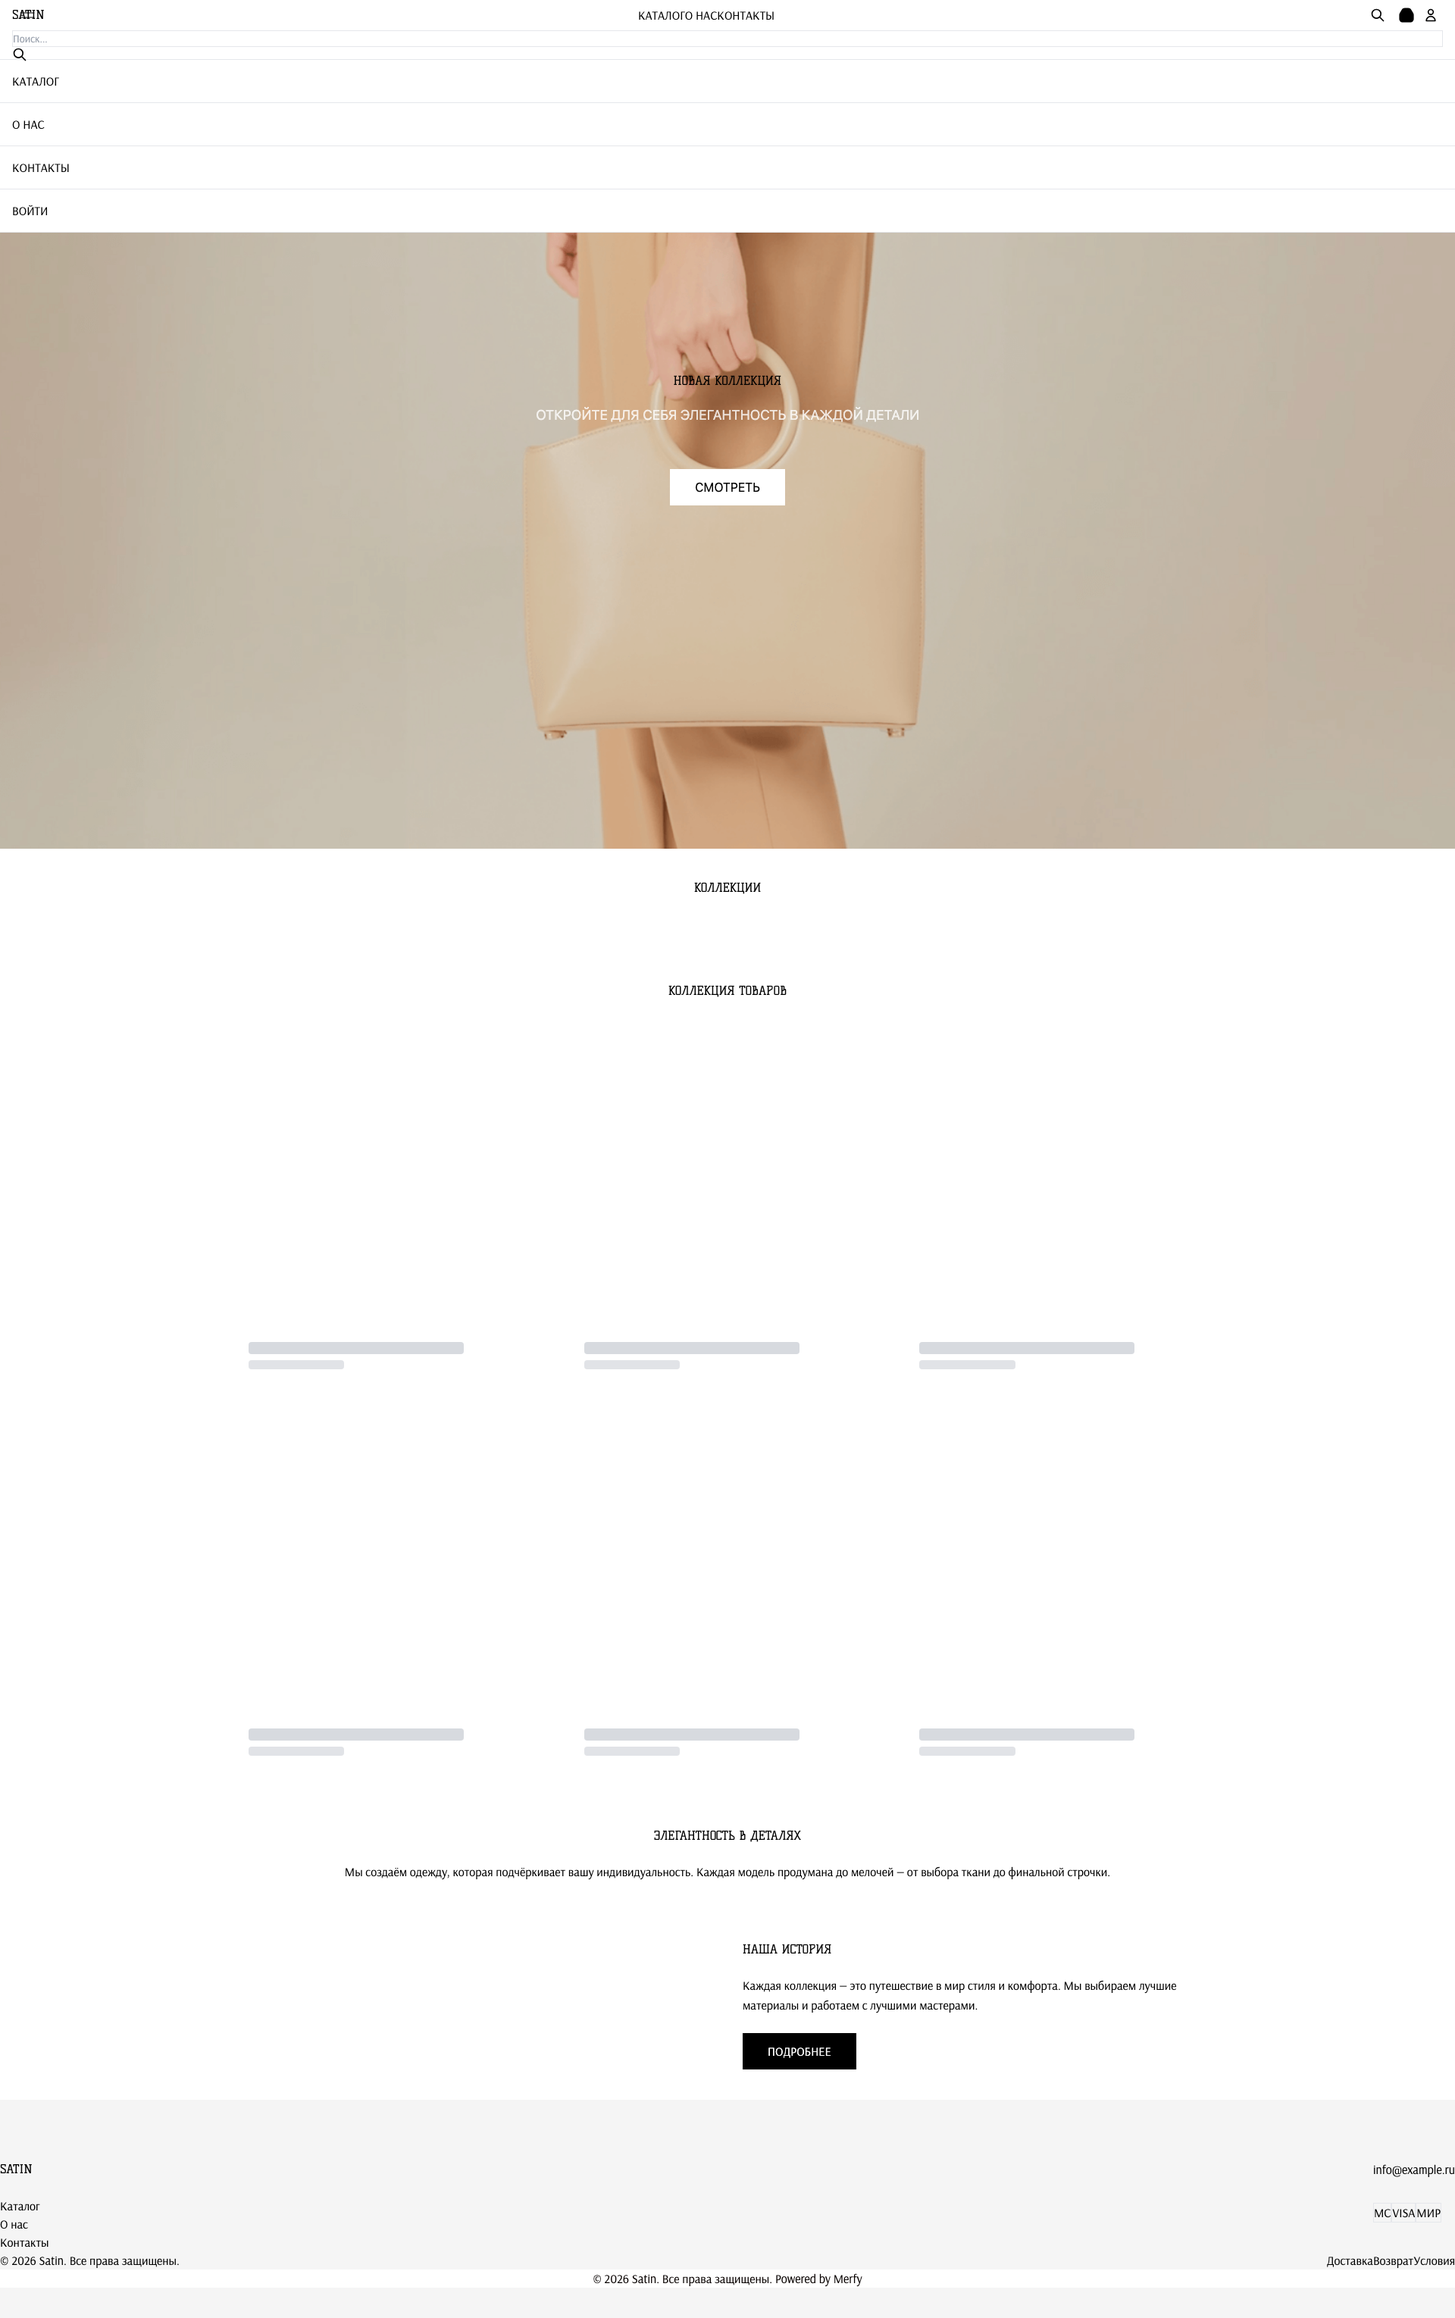
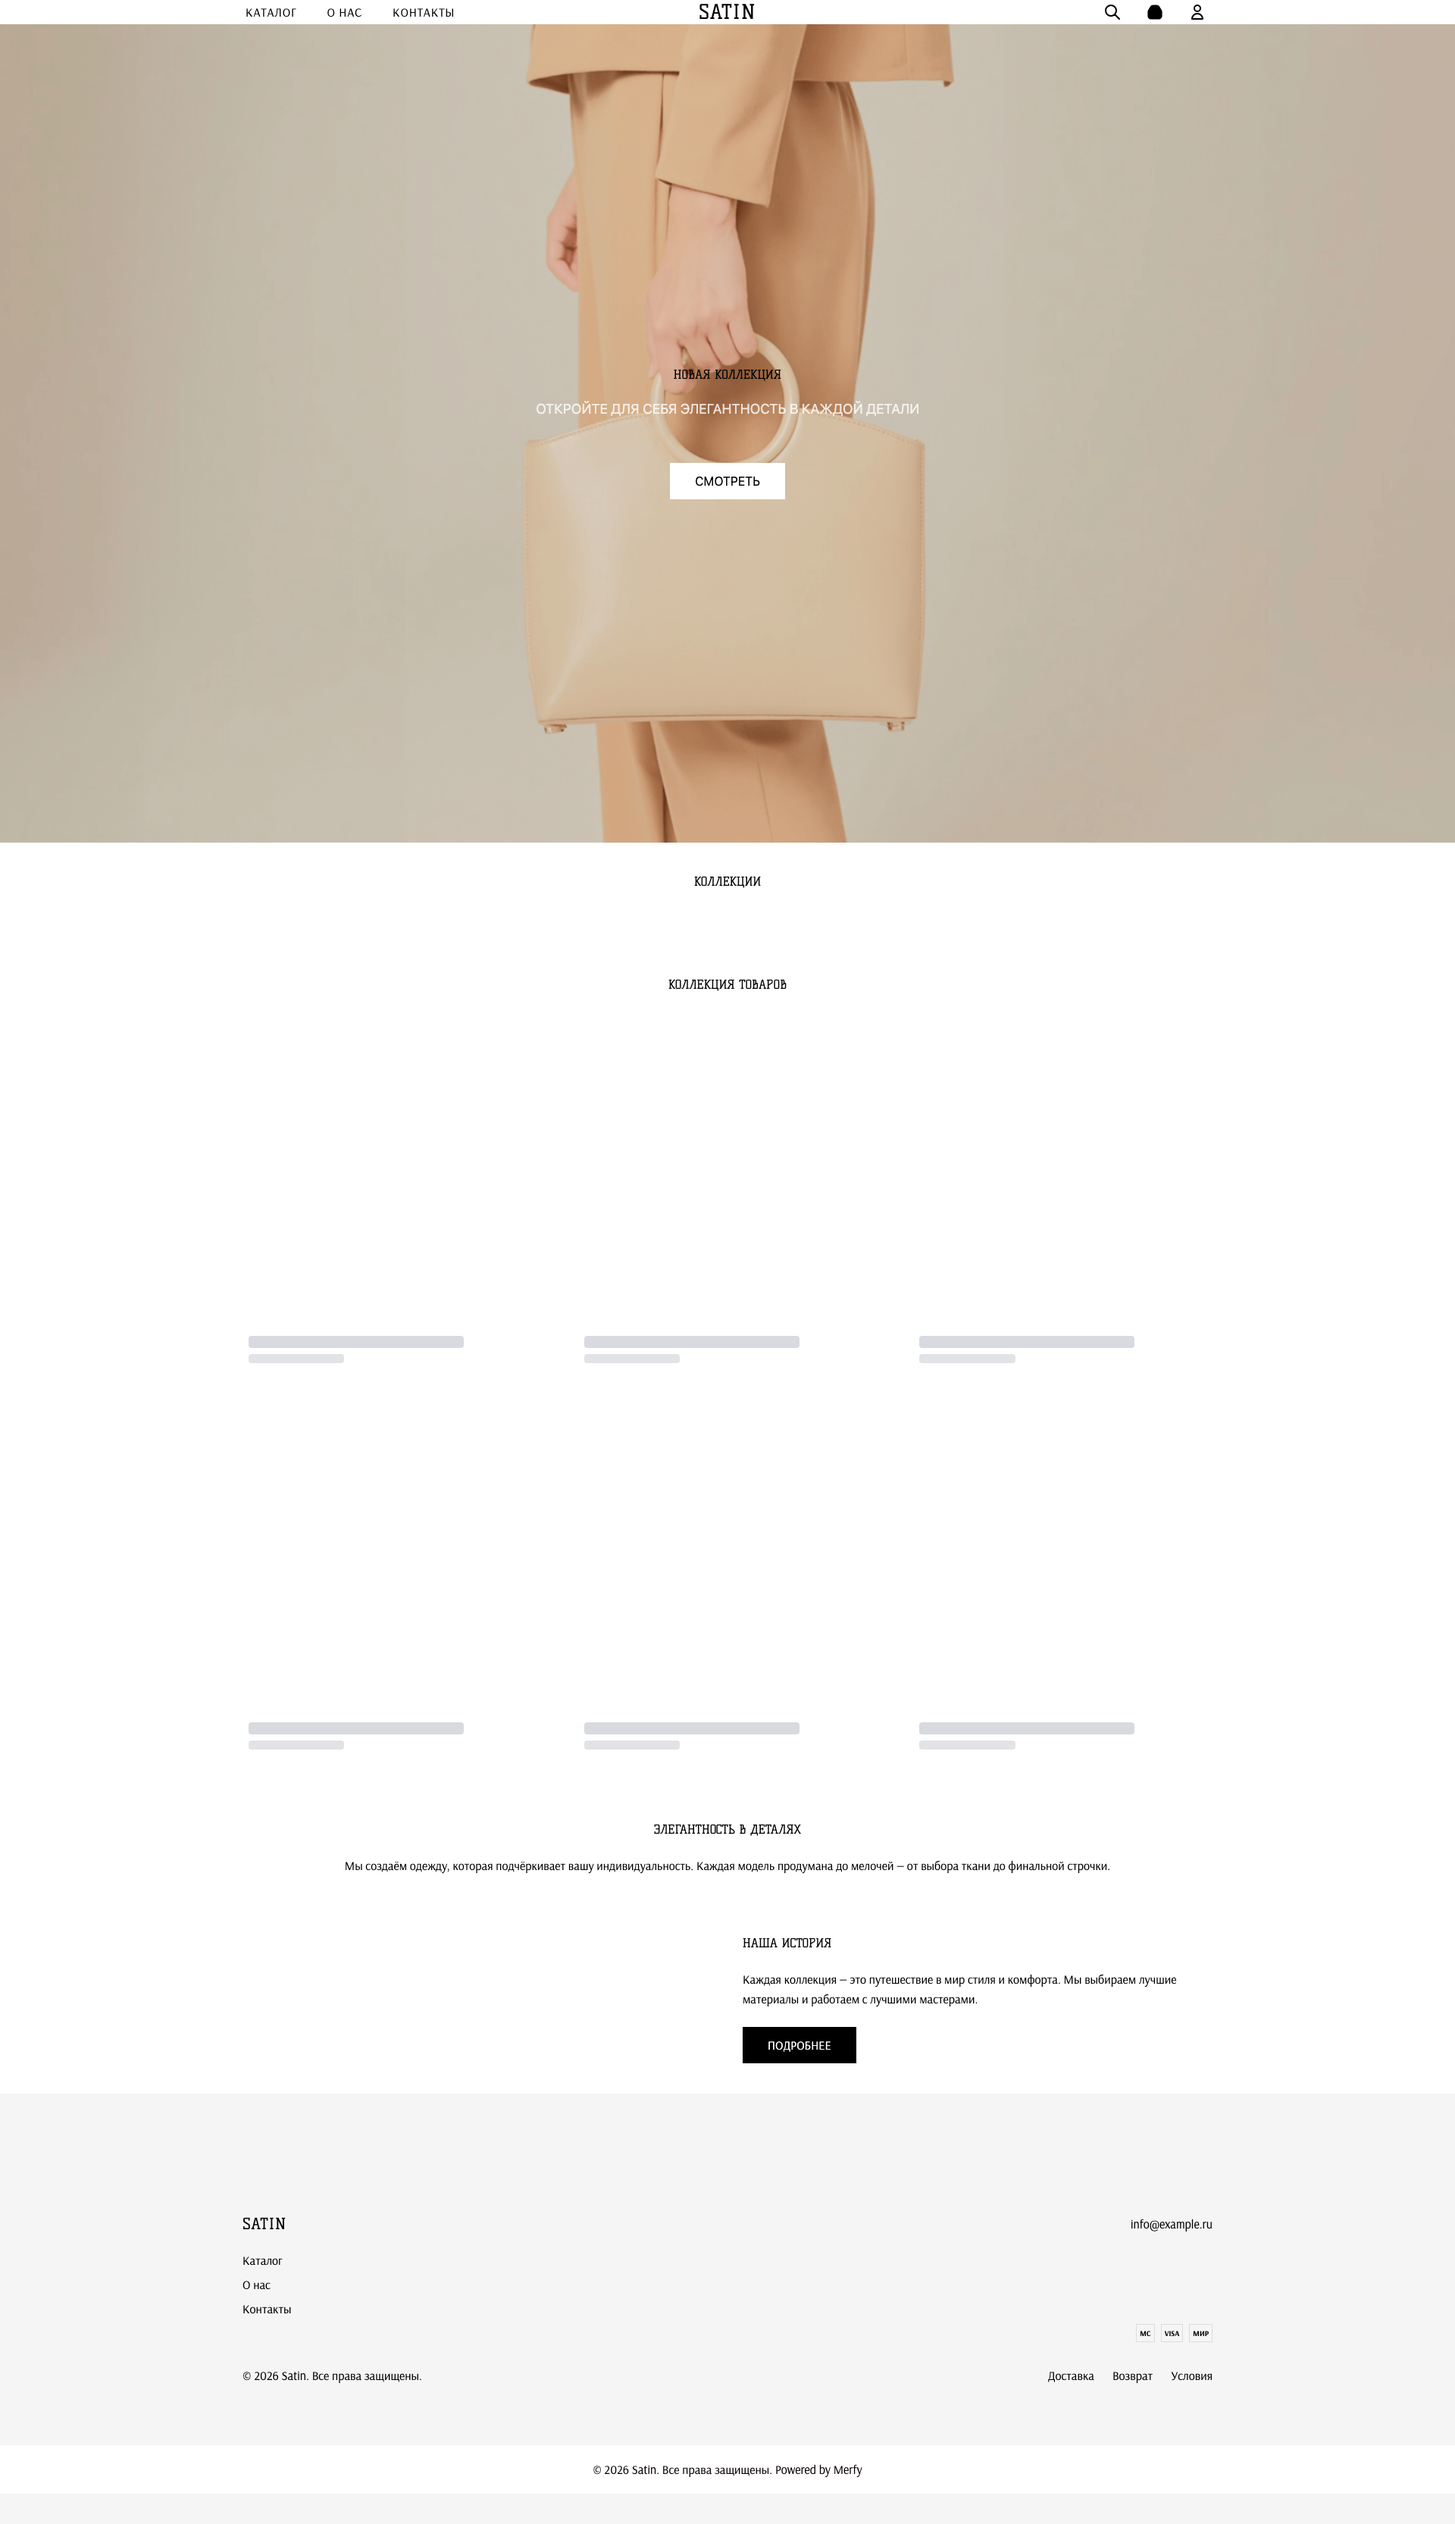
fix(079): uniform heading typography and subtitle support
Headings across Collections, PopularProducts, MainText, and ImageWithText
were styled as huge centered display text (text-[var(--size-hero-heading)]
text-center). Live templates (072) use a compact 20px uppercase tracked
left-aligned heading with a 16px muted subtitle. Sync the theme-base
classes + add subtitle rendering so preview matches.

- Collections.astro: render new `subtitle` below heading
- PopularProducts.astro: render new `subtitle` below heading
- preview.controller: coercers forward `subtitle`/`text` → subtitle
- ImageWithText button becomes outline (border + transparent) matching
  live "Подробнее" style

diff --git a/packages/theme-base/blocks/ImageWithText/ImageWithText.classes.ts b/packages/theme-base/blocks/ImageWithText/ImageWithText.classes.ts
@@ -18,8 +18,8 @@ export const ImageWithTextClasses = {
   image:
     'w-full aspect-[4/3] object-cover rounded-[var(--radius-media)]',
   heading:
-    '[font-family:var(--font-heading)] text-[var(--size-hero-heading)] text-[rgb(var(--color-heading))] leading-tight mb-6',
-  text: '[font-family:var(--font-body)] text-[rgb(var(--color-text))] leading-relaxed mb-6',
+    '[font-family:var(--font-heading)] text-[20px] font-normal uppercase tracking-[0.05em] leading-[1.2] text-[rgb(var(--color-heading))] mb-3',
+  text: '[font-family:var(--font-body)] text-[16px] font-normal leading-[1.25] text-[rgb(var(--color-text))] mb-6',
   button:
-    'inline-flex items-center justify-center h-[var(--size-hero-button-h)] rounded-[var(--radius-button)] px-8 border border-[rgb(var(--color-button-border))] bg-[rgb(var(--color-button-bg))] text-[rgb(var(--color-button-text))] [font-family:var(--font-body)]',
+    'inline-flex items-center justify-center h-[48px] px-4 text-[16px] font-normal uppercase no-underline hover:opacity-90 transition-colors [font-family:var(--font-body)] self-start border border-[rgb(var(--color-foreground,0,0,0))] rounded-[var(--radius-button)] bg-transparent text-[rgb(var(--color-heading))]',
 } as const;

diff --git a/src/controllers/preview.controller.ts b/src/controllers/preview.controller.ts
@@ -419,6 +419,10 @@ function coerceHeaderProps(out: Record<string, unknown>): void {
 function coercePopularProductsProps(out: Record<string, unknown>): void {
   const heading = unwrapTextSize(out.heading);
   out.heading = heading.present ? heading.value : 'Популярные товары';
+  // subtitle legacy shape: {text} or {content} envelope OR flat string
+  const subtitle = unwrapTextSize(out.text);
+  if (subtitle.present) out.subtitle = subtitle.value;
+  if (typeof out.subtitle !== 'string') out.subtitle = '';
   // productCard.columns → columns, legacy `cards` stays
   if (!out.columns && isPlainObject(out.productCard)) {
     const pc = out.productCard as Record<string, unknown>;
@@ -510,6 +514,7 @@ function coerceCollectionsProps(
   if (typeof out.title === 'string' && !out.heading) {
     out.heading = out.title;
   }
+  if (typeof out.subtitle !== 'string') out.subtitle = '';
   if (typeof out.columnsCount === 'number' && !out.columns) {
     out.columns = out.columnsCount;
   }

diff --git a/packages/theme-base/blocks/Collections/Collections.classes.ts b/packages/theme-base/blocks/Collections/Collections.classes.ts
@@ -2,7 +2,9 @@ export const CollectionsClasses = {
   root: 'relative w-full',
   container: 'mx-auto max-w-[var(--container-max-width)] px-4',
   heading:
-    '[font-family:var(--font-heading)] text-[var(--size-hero-heading)] text-[rgb(var(--color-heading))] mb-8 text-center',
+    '[font-family:var(--font-heading)] text-[20px] font-normal uppercase tracking-[0.05em] leading-[1.2] text-[rgb(var(--color-heading))] mb-2 text-left',
+  subtitle:
+    '[font-family:var(--font-body)] text-[16px] font-normal leading-[1.25] text-[rgb(var(--color-muted))] mb-8 text-left',
   grid: 'grid gap-x-[var(--spacing-grid-col-gap)] gap-y-[var(--spacing-grid-row-gap)]',
   card: 'block overflow-hidden rounded-[var(--radius-card)]',
   image: 'w-full aspect-square object-cover rounded-[var(--radius-media)]',

diff --git a/packages/theme-base/blocks/MainText/MainText.classes.ts b/packages/theme-base/blocks/MainText/MainText.classes.ts
@@ -2,8 +2,8 @@ export const MainTextClasses = {
   root: 'relative w-full',
   container: 'mx-auto max-w-[var(--container-max-width)] px-4',
   heading:
-    '[font-family:var(--font-heading)] text-[var(--size-hero-heading)] text-[rgb(var(--color-heading))] leading-tight mb-6',
-  text: '[font-family:var(--font-body)] text-[rgb(var(--color-text))] leading-relaxed',
+    '[font-family:var(--font-heading)] text-[20px] font-normal uppercase tracking-[0.05em] leading-[1.2] text-[rgb(var(--color-heading))] mb-3',
+  text: '[font-family:var(--font-body)] text-[16px] font-normal leading-[1.25] text-[rgb(var(--color-text))]',
   align: {
     left: 'text-left',
     center: 'text-center',

diff --git a/packages/theme-base/blocks/PopularProducts/PopularProducts.classes.ts b/packages/theme-base/blocks/PopularProducts/PopularProducts.classes.ts
@@ -2,7 +2,9 @@ export const PopularProductsClasses = {
   root: 'relative w-full',
   container: 'mx-auto max-w-[var(--container-max-width)] px-4',
   heading:
-    '[font-family:var(--font-heading)] text-[var(--size-hero-heading)] text-[rgb(var(--color-heading))] mb-8 text-center',
+    '[font-family:var(--font-heading)] text-[20px] font-normal uppercase tracking-[0.05em] leading-[1.2] text-[rgb(var(--color-heading))] mb-2',
+  subtitle:
+    '[font-family:var(--font-body)] text-[16px] font-normal leading-[1.25] text-[rgb(var(--color-muted))] mb-8',
   grid:
     'grid gap-x-[var(--spacing-grid-col-gap)] gap-y-[var(--spacing-grid-row-gap)]',
   placeholderCard:
